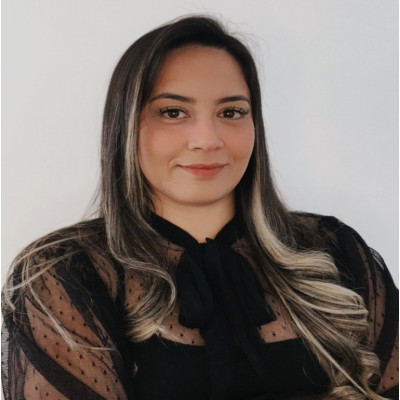
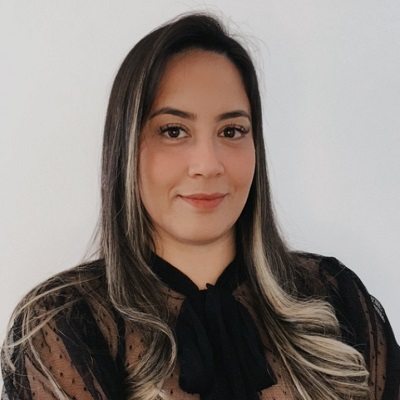
Atualizacao Pagina Mentoras
Adicionada Flavia

diff --git a/mentoras/index.html b/mentoras/index.html
@@ -212,6 +212,22 @@
 
           <div class="col-xl-3 col-lg-4 col-md-6">
             <div class="member">
+              <img src=" img/team/flavia.jpeg" class="img-fluid" alt="">
+              <div class="member-info">
+                <div class="member-info-content">
+                  <h4>Flávia Amorim </h4>
+                  <span>Mentora Cloud Girls</span>
+                </div>
+                <div class="social">
+                  <a href="https://www.linkedin.com/in/fl%C3%A1via-amorim-b2591762/"><i class="fab fa-linkedin-in"></i></a>
+                 <!-- <a href="https://github.com/ingridfs" target="_blank"><i class="fab fa-github"></i></a>-->
+                </div>
+              </div>
+            </div>
+          </div>
+
+          <div class="col-xl-3 col-lg-4 col-md-6">
+            <div class="member">
               <img src=" img/team/heloise.jpeg" class="img-fluid" alt="">
               <div class="member-info">
                 <div class="member-info-content">
